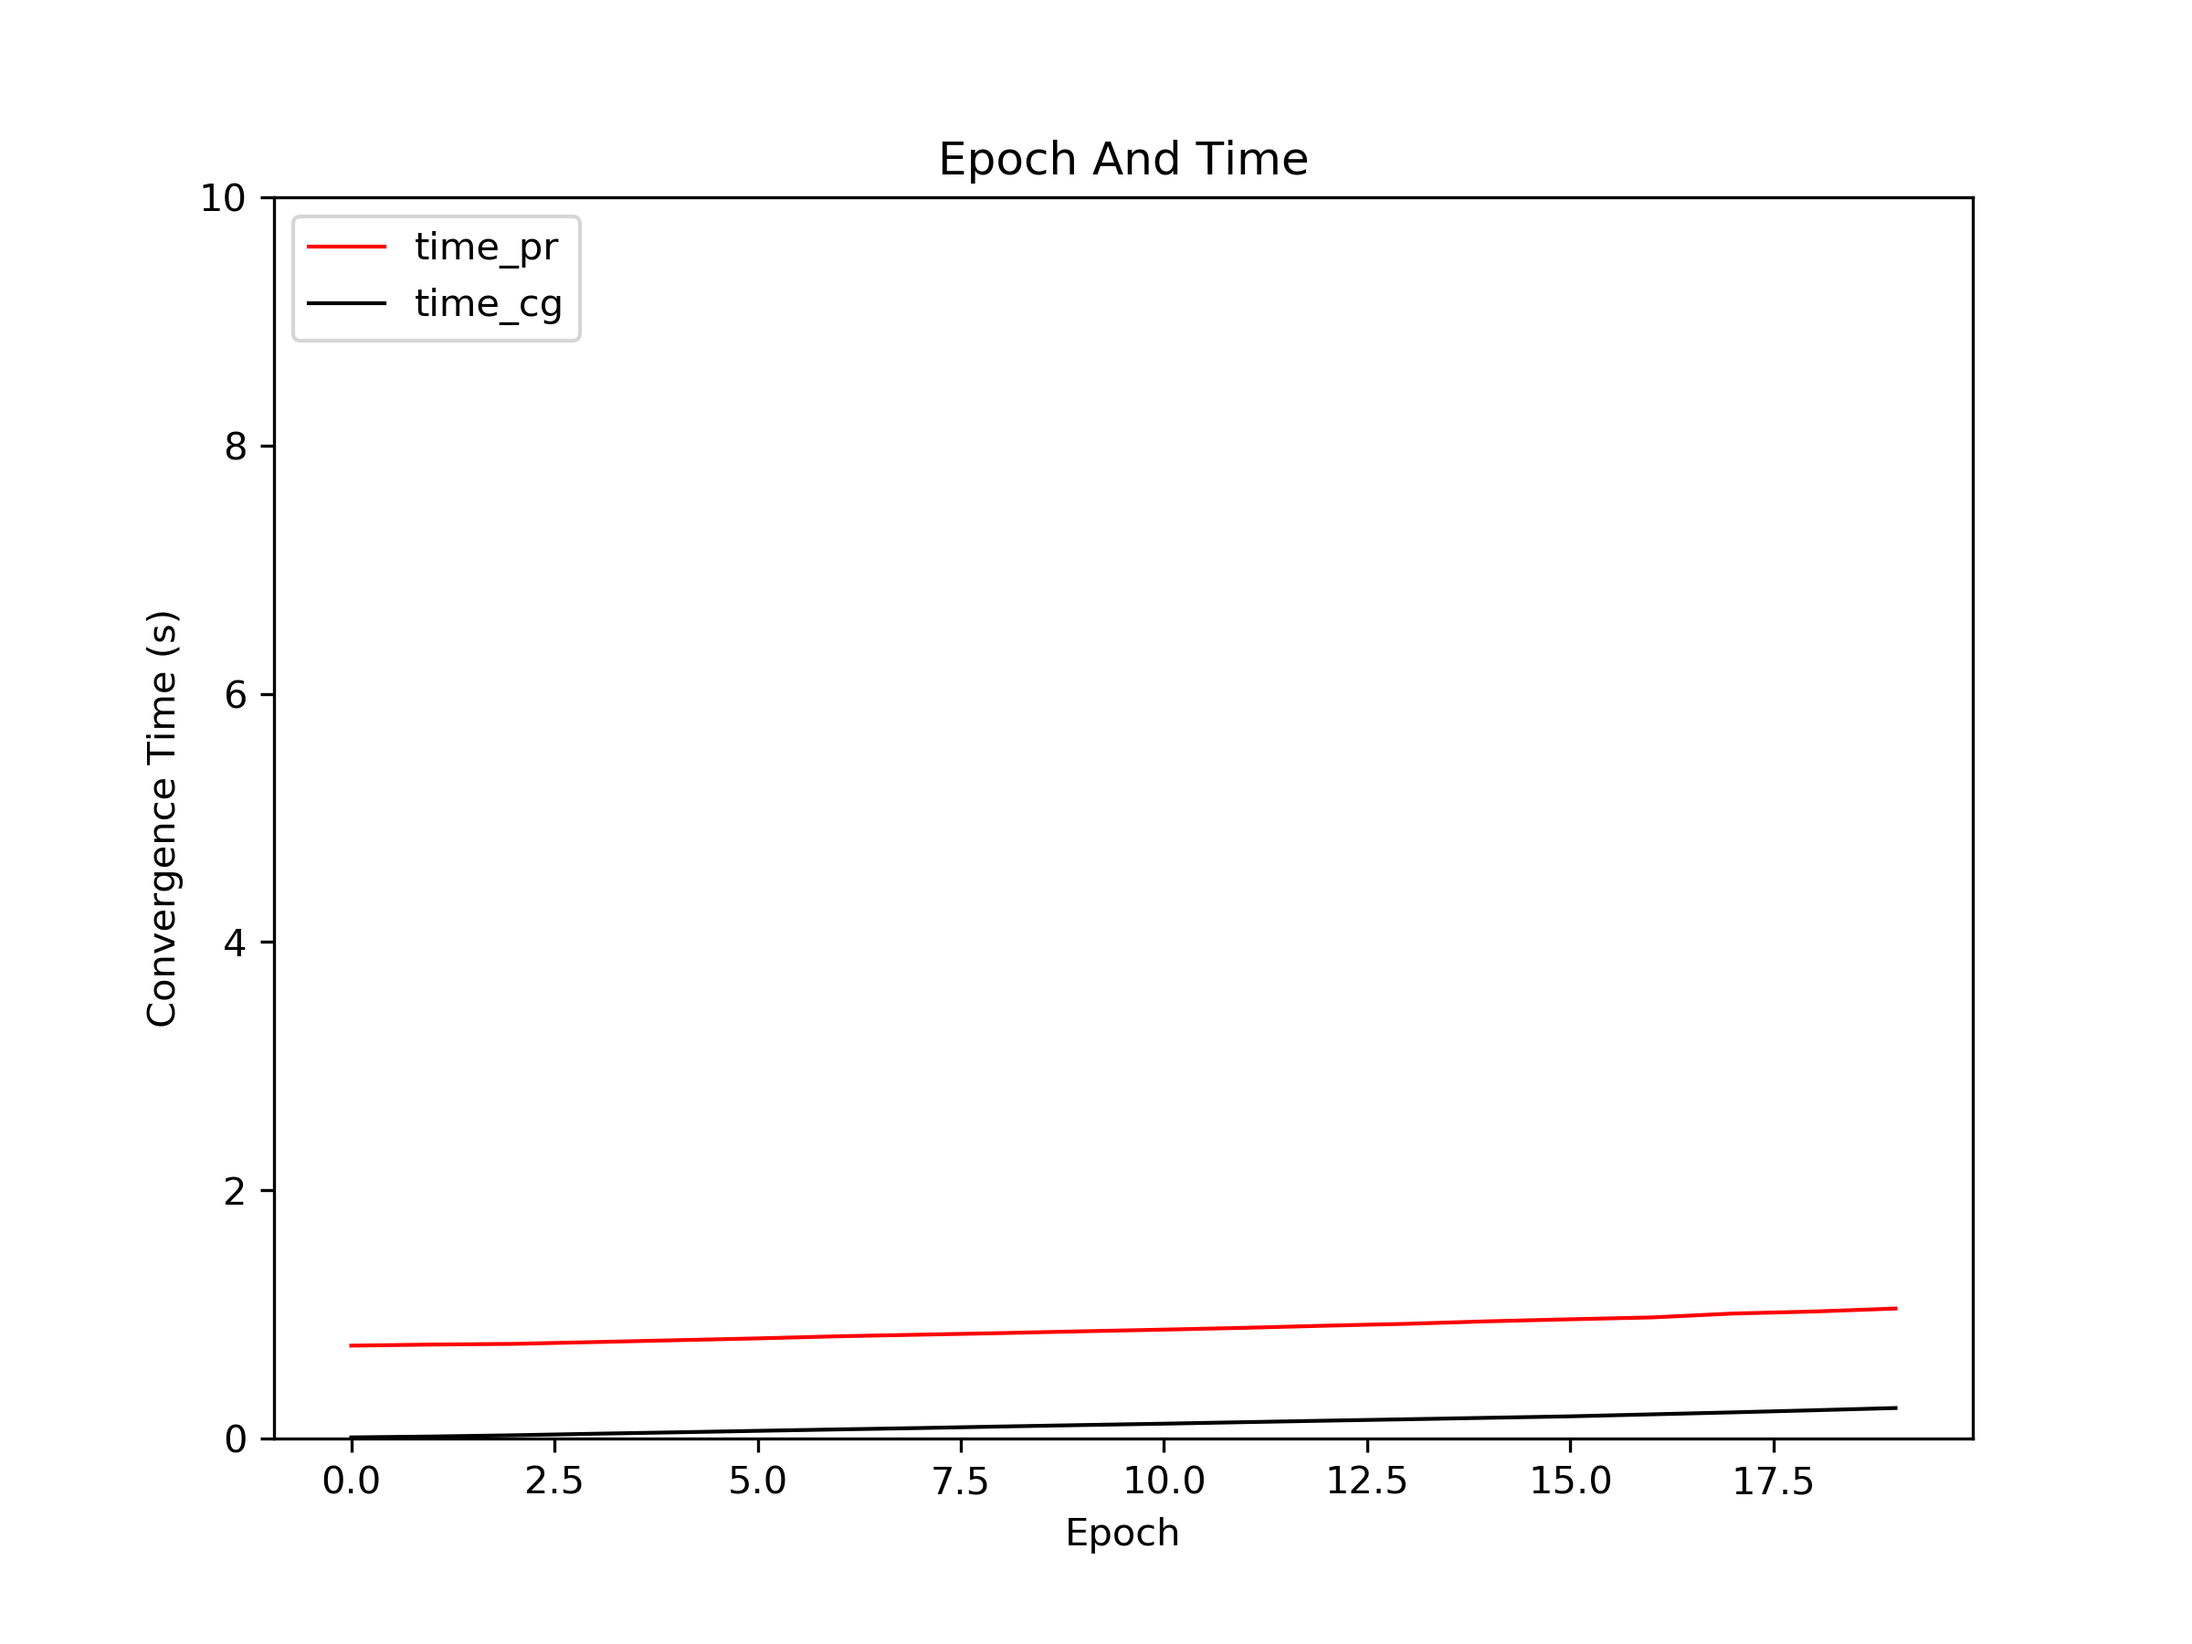
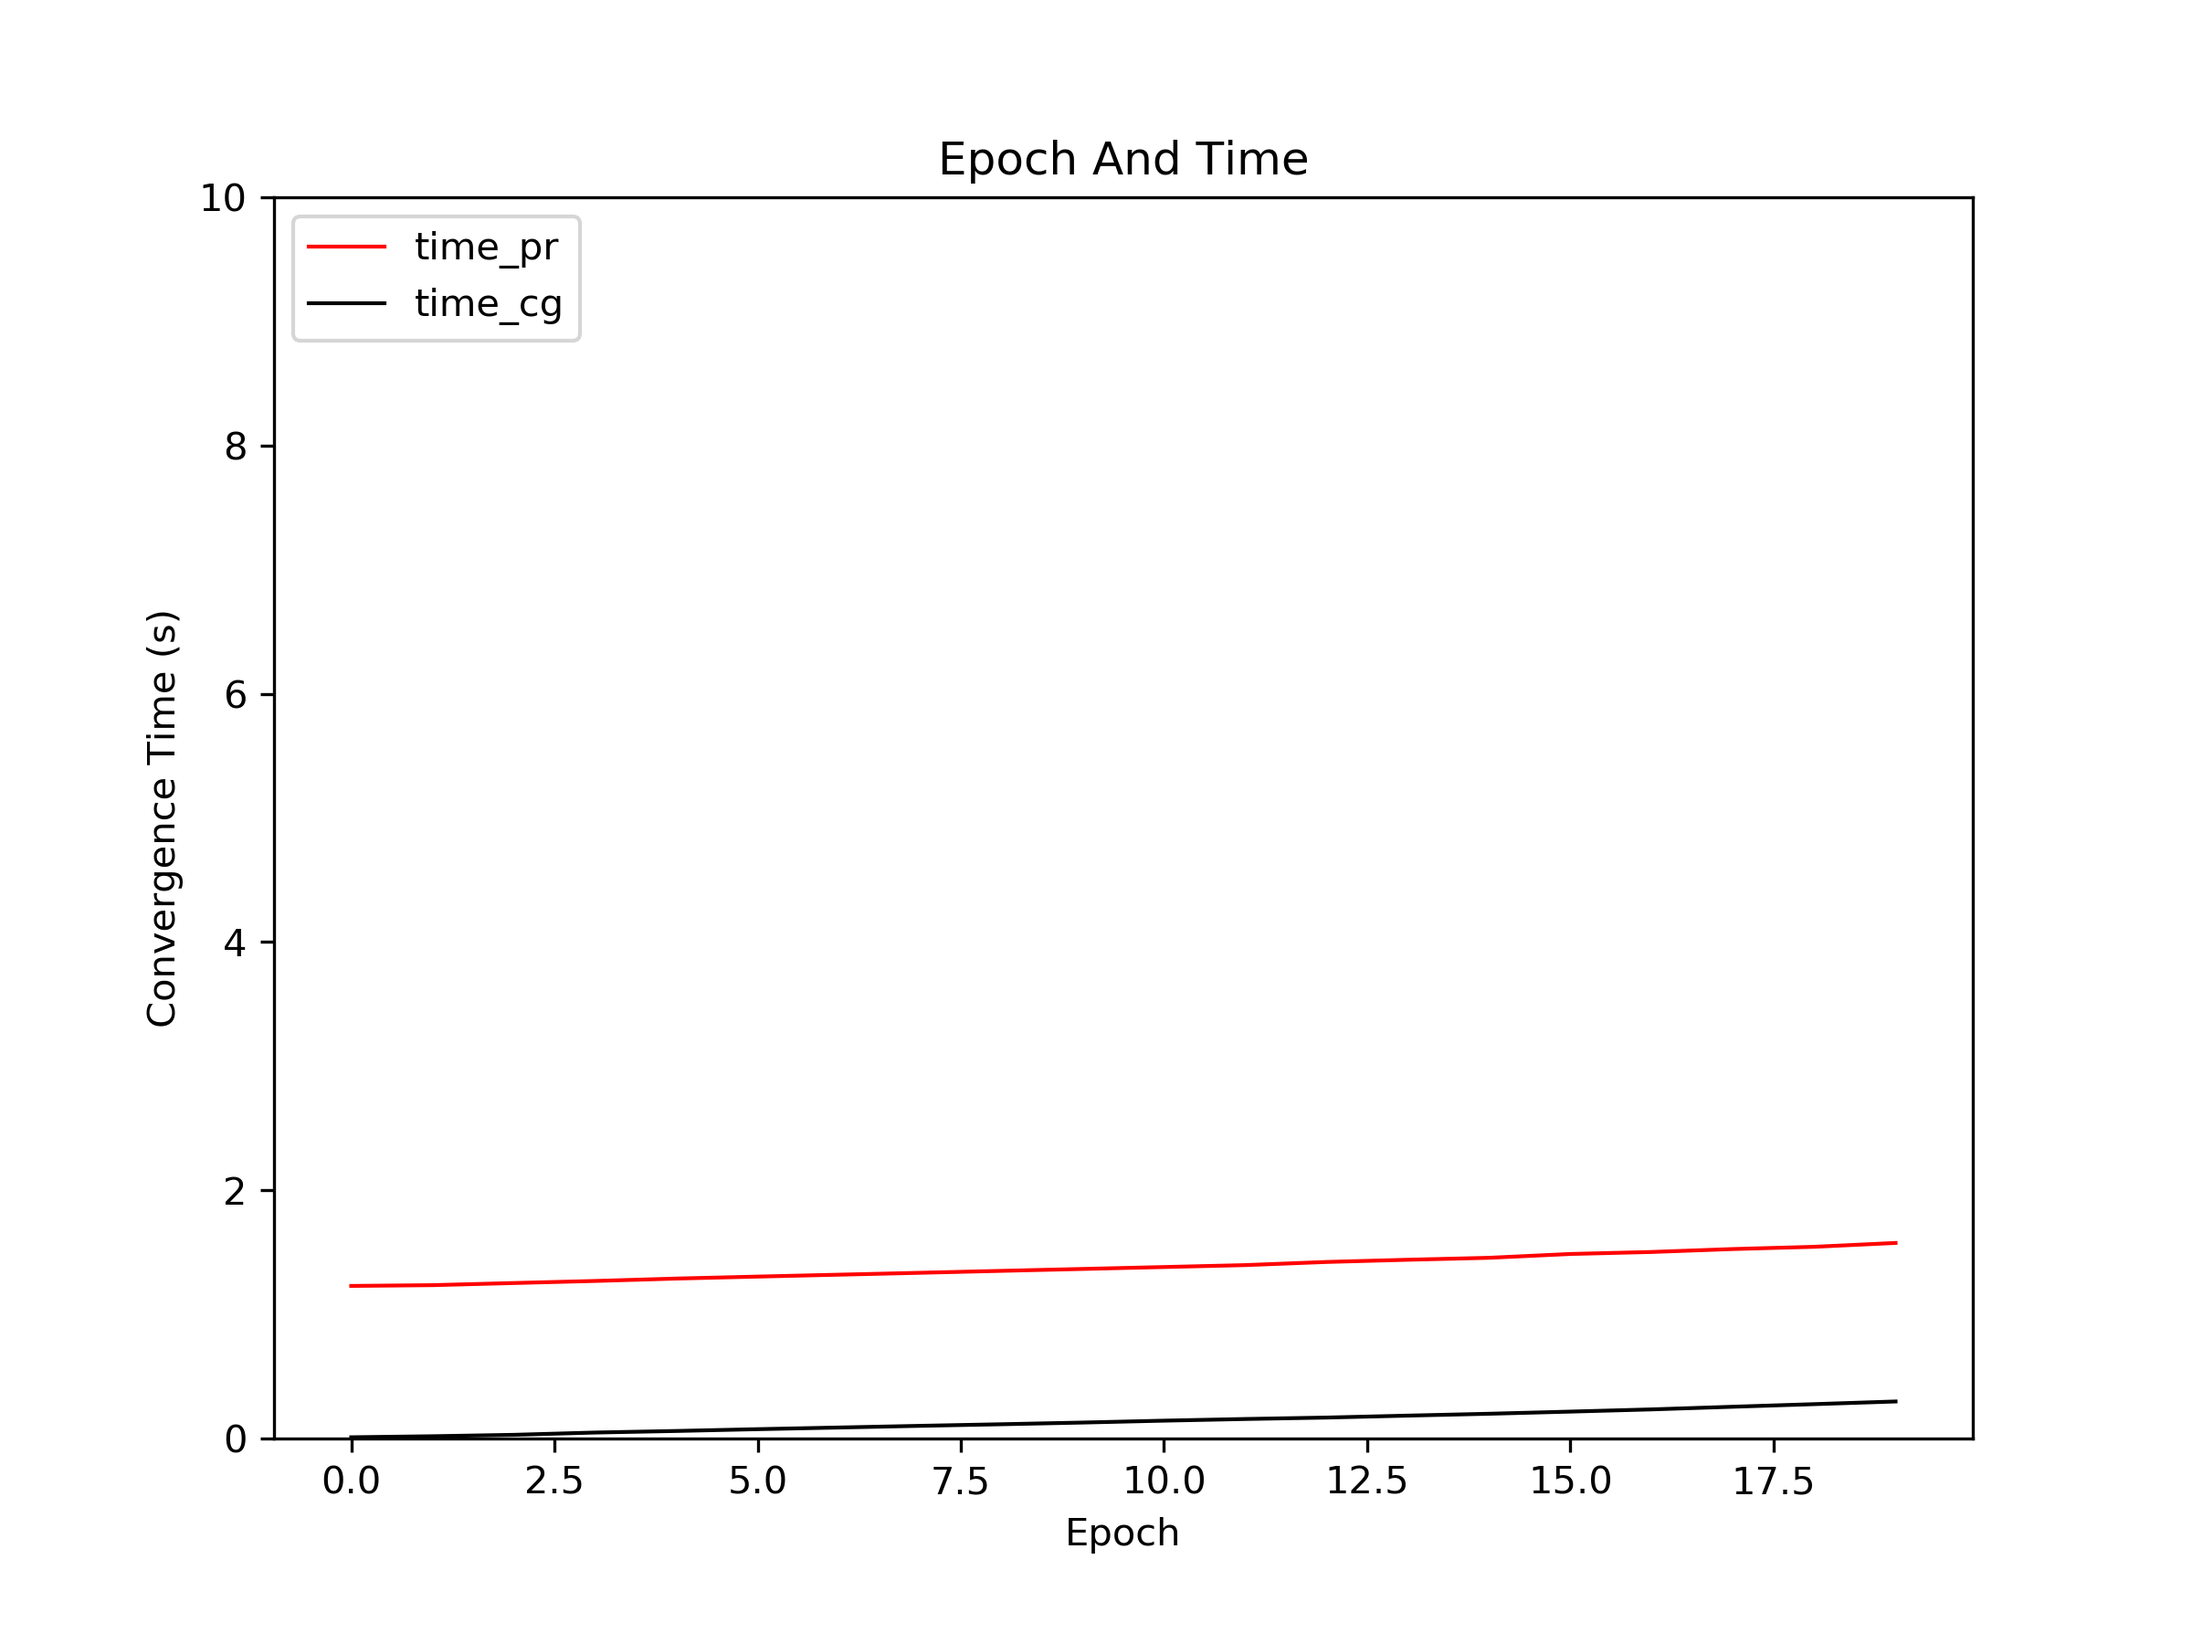
So we finally made a story :)

Changed region(s): [[0.375, 0.84, 0.875, 0.8711]]

diff --git a/MP1/mp1.py b/MP1/mp1.py
@@ -117,15 +117,15 @@ def plot(time_slot_pr, train_acc_pr, test_acc_pr, time_slot_cg, train_acc_cg, te
     plt.plot(epoch, time_slot_pr, color="red", linewidth=1.0, linestyle="-", label='time_pr')
     plt.plot(epoch, time_slot_cg, color="black", linewidth=1.0, linestyle="-", label='time_cg')
     plt.legend(loc='upper left')
-    plt.ylim(0, 2.0)
+    plt.ylim(0, 10.0)
     plt.savefig("./figures/{}_time.png".format(name),dpi=300)
     plt.show()
 
 if __name__ == '__main__':
-    e=15
-    l=False
+    e=20
+    l=True
     f=True
-    nr=True
+    nr=False
     time_slot_pr, train_acc_pr, test_acc_pr = main(method='pr', epochs=e, larger_param=l, full_batch=f, no_restart=nr)
     time_slot_cg, train_acc_cg, test_acc_cg = main(method='cg', epochs=e, larger_param=l, full_batch=f, no_restart=nr)
     plot(time_slot_pr, train_acc_pr, test_acc_pr, time_slot_cg, train_acc_cg, test_acc_cg, "epoch: {}, larger: {}, full: {}, nr: {}".format(e, l, f, nr))
